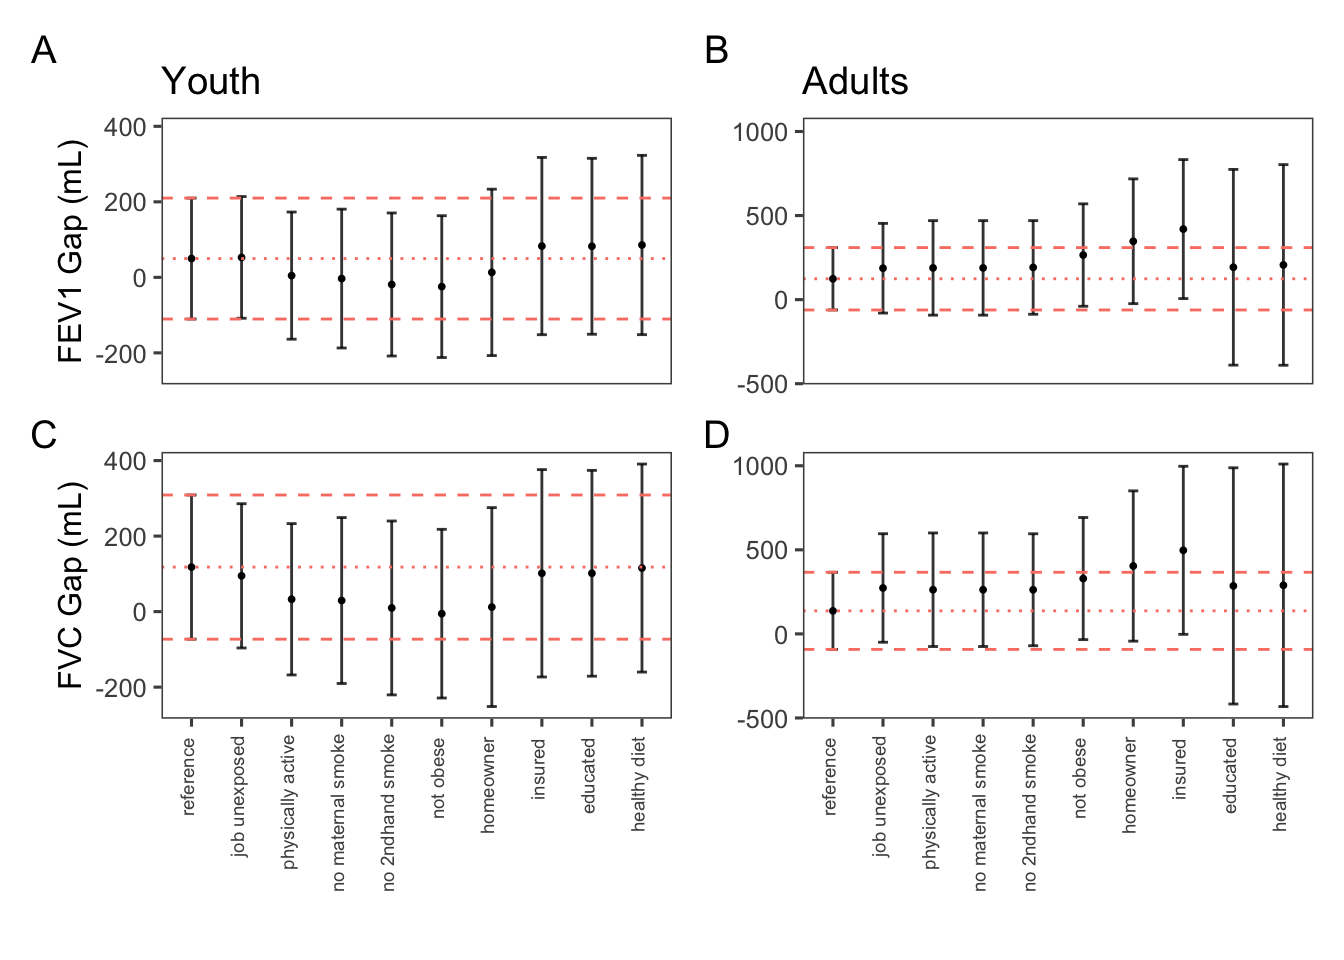
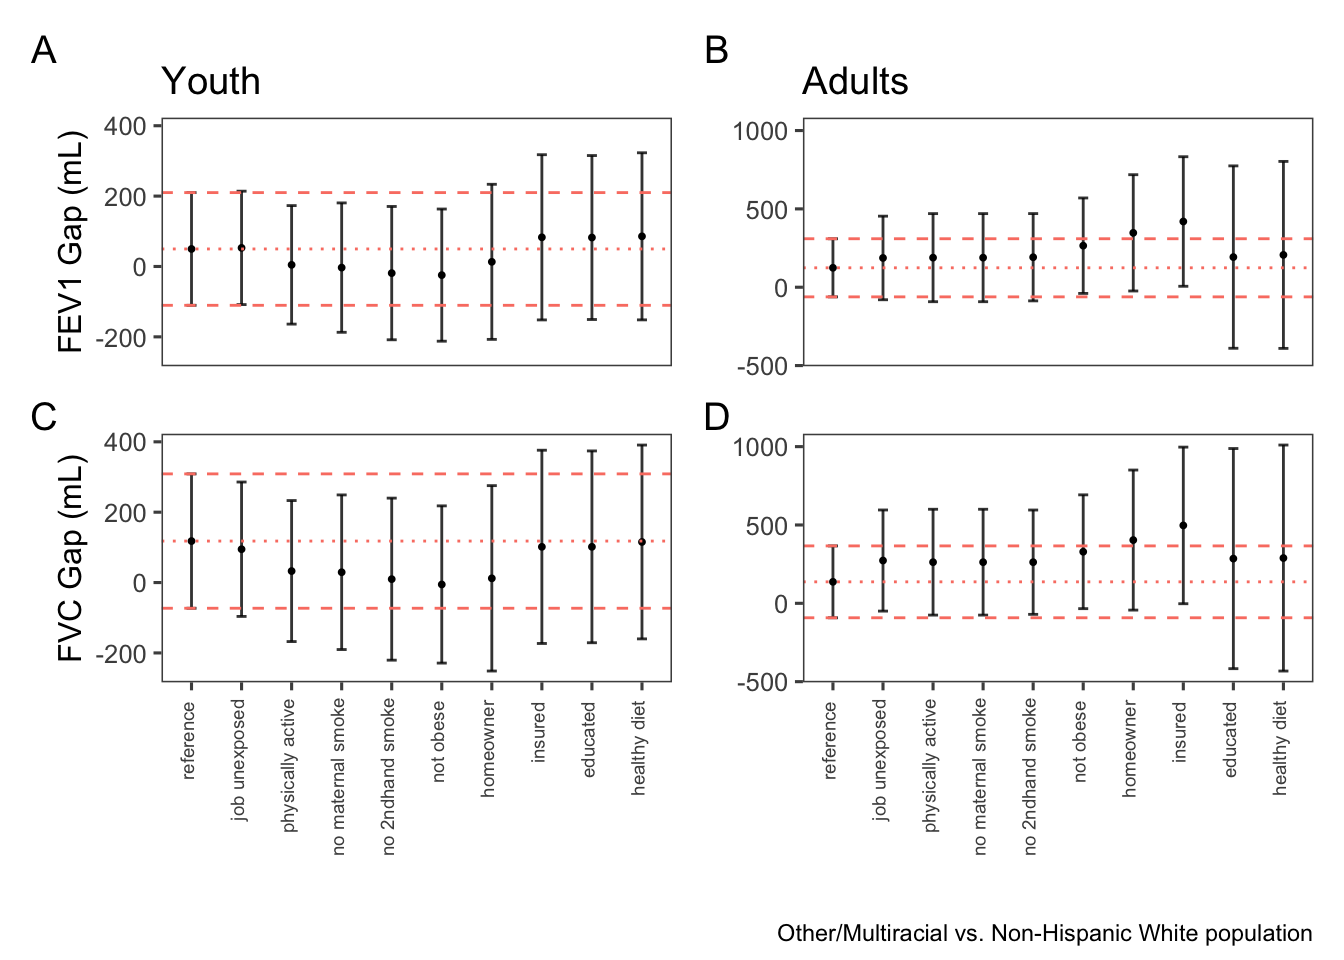
corrections

diff --git a/who-is-healthy-anyways.html b/who-is-healthy-anyways.html
@@ -12,7 +12,7 @@
 <meta name="author" content="Don D. Sin">
 <meta name="author" content="Peter Loewen">
 <meta name="author" content="Mohsen Sadatsafavi">
-<meta name="dcterms.date" content="2024-12-31">
+<meta name="dcterms.date" content="2025-01-02">
 
 <title>Who is healthy anyway? Varying definitions of health in reference populations and the contribution of measurable social determinants to racial disparities in lung function</title>
 <style>
@@ -179,7 +179,7 @@ div.csl-indent {
     <div>
     <div class="quarto-title-meta-heading">Published</div>
     <div class="quarto-title-meta-contents">
-      <p class="date">December 31, 2024</p>
+      <p class="date">January 2, 2025</p>
     </div>
   </div>
   
@@ -195,7 +195,7 @@ div.csl-indent {
 <h2 class="anchored" data-anchor-id="abstract">Abstract</h2>
 <p><strong>RATIONALE:</strong> Racialized populations disproportionately experience exposures that impair lung function. Race-neutral reference equations are intended to mitigate bias due to disproportionate exposures at the cost of reduced precision. We hypothesized that the disproportionate impact of social determinants of health (SDoH) captured in survey data could help explain a larger proportion of racial gaps in lung function than previously reported.</p>
 <p><strong>METHODS:</strong> We defined a series of nested reference populations using data from NHANES 2007-2012 participants. Starting with non-smokers without respiratory symptoms or diagnoses, we sequentially excluded those with confirmed occupational exposure to dust/fumes, physical inactivity, maternal tobacco use, obesity, no home ownership, no insurance, lower education, and self-reported unhealthy diet. Across successive populations, we compared average age-, sex-, and height-adjusted differences in FEV<sub>1</sub> and FVC between minority race and ethnicity groups and White participants, separately for adults (≥20) and youths (&lt;20).</p>
-<p><strong>RESULTS:</strong> In successively healthier populations, the proportion of participants declined for non-Hispanic Black, Mexican-American, and Other Hispanic populations but remained close to the reference population for Asian and other/multiracial participants. After excluding individuals with unfavorable SDoH, the gap between non-Hispanic Black and White Americans in FEV<sub>1</sub> and FVC reduced by 25% and 26% in youths and 26% and 19% in adults. The gap between Asian and White Americans reduced by 7% and 13% among youths but increased by 14% and 11% among adults. At baseline, Mexican Americans had slightly higher adjusted FEV<sub>1</sub> and FVC than non-Hispanic White Americans, and excluding those with unfavorable SDoH increased this gap.</p>
+<p><strong>RESULTS:</strong> In successively healthier populations, the proportion of participants declined for non-Hispanic Black, Mexican American, and Other Hispanic populations but remained close to the reference population for Asian and Other/Multiracial participants. After excluding individuals with unfavorable SDoH, the gap between non-Hispanic Black and White Americans in FEV<sub>1</sub> and FVC reduced by 25% and 26% in youths and 26% and 19% in adults. The gap between Asian and White Americans reduced by 7% and 13% among youths but increased by 14% and 11% among adults. At baseline, Mexican Americans had slightly higher adjusted FEV<sub>1</sub> and FVC than non-Hispanic White Americans, and excluding those with unfavorable SDoH increased this gap.</p>
 <p><strong>CONCLUSIONS:</strong> The SDoH investigated herein disproportionately affected Black, Mexican American, and Other Hispanic populations, and explained a higher proportion of racial disparities in lung function than previously reported.</p>
 <hr>
 </section>
@@ -213,7 +213,7 @@ div.csl-indent {
 <p>Occupational exposure was defined as exposure to either mineral dust, organic dust, exhaust fumes, or other fumes at work. Individuals who did not have at least 10 minutes of vigorous or moderate activity in a typical week, either for work or recreationally, were considered physically inactive. Lower educated individuals were defined as adults 20 years of age and older with a high school or a GED degree or lower, and 6-19 years old who were neither in school nor on vacation from school. Individuals who self-reported their dietary health as either poor or fair were considered to have an unhealthy diet. Poverty was measured as the ratio of income to federal poverty levels. We calculated allostatic load score based on twelve commonly used biomarkers, using the method proposed by Liu et al <span class="citation" data-cites="liu2021">[<a href="#ref-liu2021" role="doc-biblioref">12</a>]</span>. Biomarkers included were C-reactive protein, white blood cell count, glycohemoglobin, serum albumin, serum creatinine, total cholesterol, high density lipoprotein (HDL), serum triglycerides, BMI, resting systolic blood pressure, resting diastolic blood pressure measurements, and pulse rate. For each of the twelve biomarkers, the participant received a score of 1 if their value was deemed high-risk (i.e., below 25% percentile for HDL and serum albumin and above 75% percentile for other biomarkers) and 0 if low risk. Possible values for allostatic load score ranged from 0 to 12.</p>
 <p>For each reference population, the racial gap was calculated as the average difference in forced expiratory volume in one second (FEV<sub>1</sub>) and forced vital capacity (FVC) between minority and majority populations adjusted by age, height, and sex in a linear regression model. We evaluated the reduction in the racial gap separately for youth (&lt;20 yrs) and adults (≥20 yrs). The distinction between adults and youth was dictated by how NHANES data are collected; for example, the educational level variable is only available for those 20 years of age and older and school attendance is more applicable to children and youth. We repeated the main analysis separately for individuals who self-identified with different minority groups, including Non-Hispanic Black, Asian (only available in NHANES 2011-2012), Mexican American, Other Hispanic, and Other/Multiracial.</p>
 <p>In sensitivity analyses, we evaluated results separately for males and females and those born inside the US. We also evaluated the proportion of the racial gap in lung function between Black and White participants that can be explained by poverty or allostatic load. To examine the effects of our choice of SDoH variables, we conducted a leave-one-out analysis, where we reproduced the results 9 times, each time leaving one of the SDoH out of the successively defined reference populations.</p>
-<p>All data preparation and analysis was performed in R v4.4.2 using reproducible Quarto documents. A fully reproducible analysis code is publicly available at <a href="https://github.com/aminadibi/who-is-healthy-anyways/" class="uri">https://github.com/aminadibi/who-is-healthy-anyways/</a>. This study was exempt from the Research Ethics Board at the University of British Columbia related to the use of publicly available data for research and publication.</p>
+<p>All data preparation and analysis were performed in R v4.4.2 using reproducible Quarto documents. A fully reproducible analysis code is publicly available at <a href="https://github.com/aminadibi/who-is-healthy-anyways/" class="uri">https://github.com/aminadibi/who-is-healthy-anyways/</a>. This study was exempt from the Research Ethics Board at the University of British Columbia related to the use of publicly available data for research and publication.</p>
 </section>
 <section id="results" class="level2">
 <h2 class="anchored" data-anchor-id="results">Results</h2>
@@ -223,7 +223,7 @@ div.csl-indent {
 </section>
 <section id="disproportionate-impact-of-exposures" class="level4">
 <h4 class="anchored" data-anchor-id="disproportionate-impact-of-exposures">Disproportionate Impact of Exposures</h4>
-<p>From the base reference population to the most restrictive, the number of included participants decreased from 8,802 to 1,921. The proportion of participants decreased from 13% to 7% for Black youths, from 11% to 4% for Black adults, from 15% to 10% for Mexican American youths, from 10% to 3% for Mexican American adults, from 7% to 5% for Other Hispanic youths, and from 6% to 3% for Other Hispanic adults (<a href="#fig-racialgap" class="quarto-xref">Figure&nbsp;3</a>). The reduction in the proportion of participants after excluding those with unfavorable SDoH confirms the disproportionate impact of these factors on Black, Mexican American, and Other Hispanic populations in the US. The proportion of participants remained within 1% of the reference population for participants who identified as Asian or Other/Multiracial.</p>
+<p>From the base reference population to the most restrictive, the number of included participants decreased from 8,802 to 1,921. The proportion of participants decreased from 13% to 7% for Black youths, from 11% to 4% for Black adults, from 15% to 10% for Mexican American youths, from 10% to 3% for Mexican American adults, from 7% to 5% for Other Hispanic youths, and from 6% to 3% for Other Hispanic adults (<a href="#fig-racialgap" class="quarto-xref">Figure&nbsp;3</a>). The reduction in the proportion of participants after excluding those with unfavorable SDoH confirms the disproportionate impact of these factors on Black, Mexican American, and Other Hispanic populations in the US. On the other hand, The proportion of participants remained within 1% of the reference population for participants who identified as Asian or Other/Multiracial.</p>
 </section>
 <section id="non-hispanic-black-americans" class="level4">
 <h4 class="anchored" data-anchor-id="non-hispanic-black-americans">Non-Hispanic Black Americans</h4>
@@ -270,7 +270,7 @@ div.csl-indent {
 <section id="discussion" class="level2">
 <h2 class="anchored" data-anchor-id="discussion">Discussion</h2>
 <p>Our understanding of the contribution of environmental and social factors to racial differences in lung function remains limited. A 2022 systematic review <span class="citation" data-cites="holland2022">[<a href="#ref-holland2022" role="doc-biblioref">13</a>]</span> found one representative study on in the US adults <span class="citation" data-cites="harik-khan2001">[<a href="#ref-harik-khan2001" role="doc-biblioref">14</a>]</span> and one on children <span class="citation" data-cites="harik-khan2004">[<a href="#ref-harik-khan2004" role="doc-biblioref">15</a>]</span>. The study on adults attributed 37.2-39.4% of the racial gap in lung function to sitting height and an additional 6.9-10.6% of the racial gap to poverty index, education, and BMI <span class="citation" data-cites="harik-khan2001">[<a href="#ref-harik-khan2001" role="doc-biblioref">14</a>]</span>. In children 8 to 17 years of age, sitting height accounted for 43.1-53.1% of the racial gap, while family head education, poverty index, and serum levels of antioxidant vitamins accounted for an additional 6.9-10.4% of the racial differences <span class="citation" data-cites="harik-khan2004">[<a href="#ref-harik-khan2004" role="doc-biblioref">15</a>]</span>. However, these studies were limited, as they only considered lung function disparities between Black and White individuals, evaluated a narrow set of SDoH, and used older NHANES III data collected in 1988–1994.</p>
-<p>Our results show that SDoH explain a much higher proportion of racial differences in lung function between Black and White Americans <span class="citation" data-cites="harik-khan2001 harik-khan2004">[<a href="#ref-harik-khan2001" role="doc-biblioref">14</a>, <a href="#ref-harik-khan2004" role="doc-biblioref">15</a>]</span>. We found that occupational exposures, physical inactivity, maternal and secondhand smoke, obesity, not having health insurance, lower education, and unhealthier diet, together, accounted for 19.4%-26.3% of racial gap in lung function between non-Hispanic Black and White participants and as much as 34.7% of the gap in males under 20. We separately found that excluding participants with higher levels of chronic stress reduced racial gaps in in lung function by 8.3-20.9%, while poverty alone accounted for 0.3-5.6% of the gap.</p>
+<p>Our results show that SDoH explain a much higher proportion of racial differences in lung function between Black and White Americans than previously reported <span class="citation" data-cites="harik-khan2001 harik-khan2004">[<a href="#ref-harik-khan2001" role="doc-biblioref">14</a>, <a href="#ref-harik-khan2004" role="doc-biblioref">15</a>]</span>. We found that occupational exposures, physical inactivity, maternal and secondhand smoke, obesity, not having health insurance, lower education, and unhealthier diet, together, accounted for 19.4%-26.3% of racial gap in lung function between non-Hispanic Black and White participants and as much as 34.7% of the gap in males under 20. We separately found that excluding participants with higher levels of chronic stress reduced racial gaps in in lung function by 8.3-20.9%, while poverty alone accounted for 0.3-5.6% of the gap.</p>
 <p>Importantly, the contribution of various SDoH or anthropometric factors to racial gaps in lung function reported by us and other researchers can sum to more than 100% <span class="citation" data-cites="Rothman2005">[<a href="#ref-Rothman2005" role="doc-biblioref">16</a>]</span>. There are two reasons behind this. Firstly, the interactions between different causes means that the combined impact of two causes may be either smaller or larger than the sum of their individual effects. Secondly, the influence of these factors could theoretically be substantial enough to fill and reverse the racial gaps in lung function.</p>
 <p>Our results are consistent with a growing body of literature that implicates historical and structural inequities in perpetuating health disparities <span class="citation" data-cites="nardone2020 schuyler2022 gaffney2021 levy2018">[<a href="#ref-nardone2020" role="doc-biblioref">17</a>–<a href="#ref-levy2018" role="doc-biblioref">20</a>]</span>. However, considerable variability exists within race categories. Controlling for the same SDoH factors reduced the racial gap more among US-born Black and White individuals. Other studies have reported higher levels of allostatic load, hypertension, and mortality risk among US-born Black individuals compared to Black immigrants <span class="citation" data-cites="doamekpor2015 brown2017 Singh2001">[<a href="#ref-doamekpor2015" role="doc-biblioref">21</a>–<a href="#ref-Singh2001" role="doc-biblioref">23</a>]</span> and among Black individuals born in different parts of the US <span class="citation" data-cites="Fang1996">[<a href="#ref-Fang1996" role="doc-biblioref">24</a>]</span>.</p>
 <p>Our baseline reference population only excluded individuals with a history of smoking, lung disease, or respiratory symptoms. In this population, age-, sex-, and height-adjusted FEV<sub>1</sub> and FVC were highest for Mexican Americans, followed by Non-Hispanic White, Other Hispanic, Asian, and Non-Hispanic Black populations. Introducing nine additional exclusion criteria to reference populations reduced racial disparities in lung function between Black and White individuals, but not for Asian population. Of note, the proportion of Asian people in the successive reference populations remained within 1% of the baseline value, indicating that the investigated SDoH did not disproportionately affect this population.</p>
@@ -3126,7 +3126,7 @@ Figure S7: Changes in lung function racial gaps between Asian and Non-Hispanic W
 </div>
 </div>
 <figcaption class="quarto-float-caption-bottom quarto-float-caption quarto-float-suppfig" id="suppfig-Other-caption-0ceaefa1-69ba-4598-a22c-09a6ac19f8ca">
-Figure S8: Changes in lung function racial gaps between Other race including multi-racial and Non-Hispanic White participants in successively more restrictive reference populations. Lung function differences are adjusted for height, age, and biological sex at birth. Positive values indicate higher lung function in the Non-Hispanic White population.
+Figure S8: Changes in lung function racial gaps between Other/Multiracial and Non-Hispanic White participants in successively more restrictive reference populations. Lung function differences are adjusted for height, age, and biological sex at birth. Positive values indicate higher lung function in the Non-Hispanic White population.
 </figcaption>
 </figure>
 </div>
